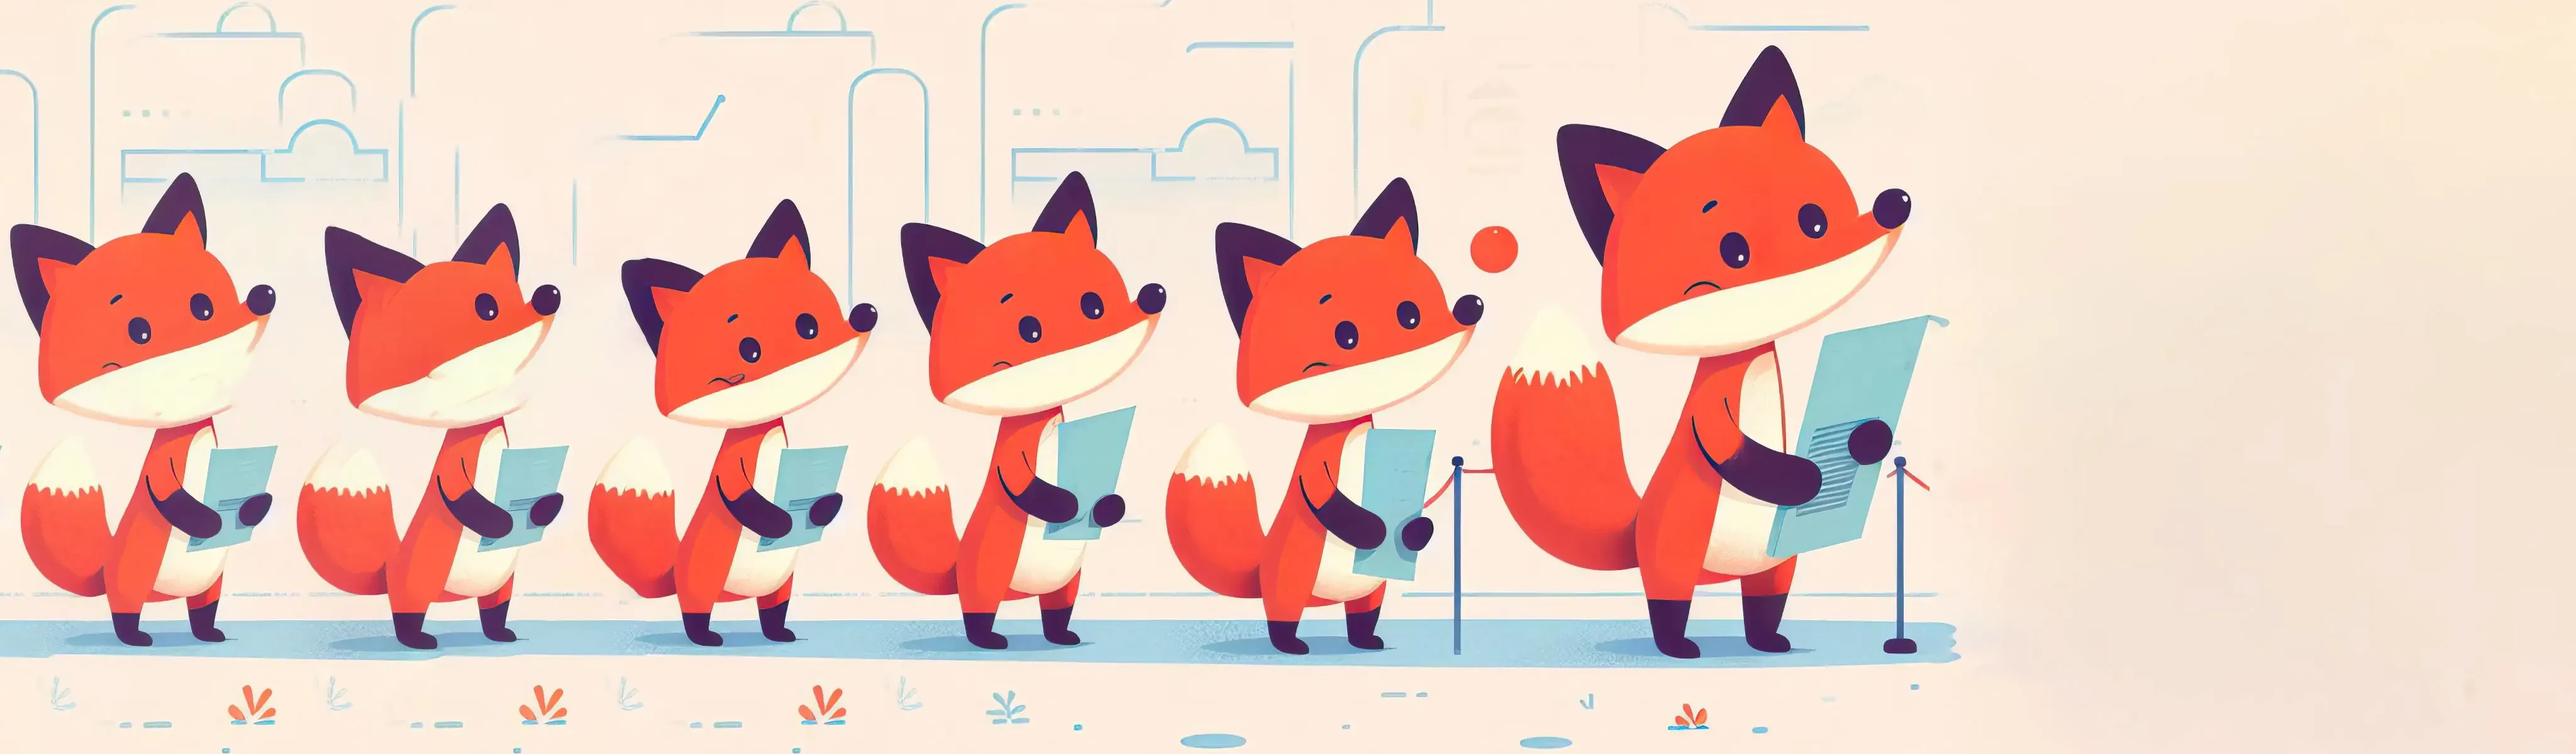
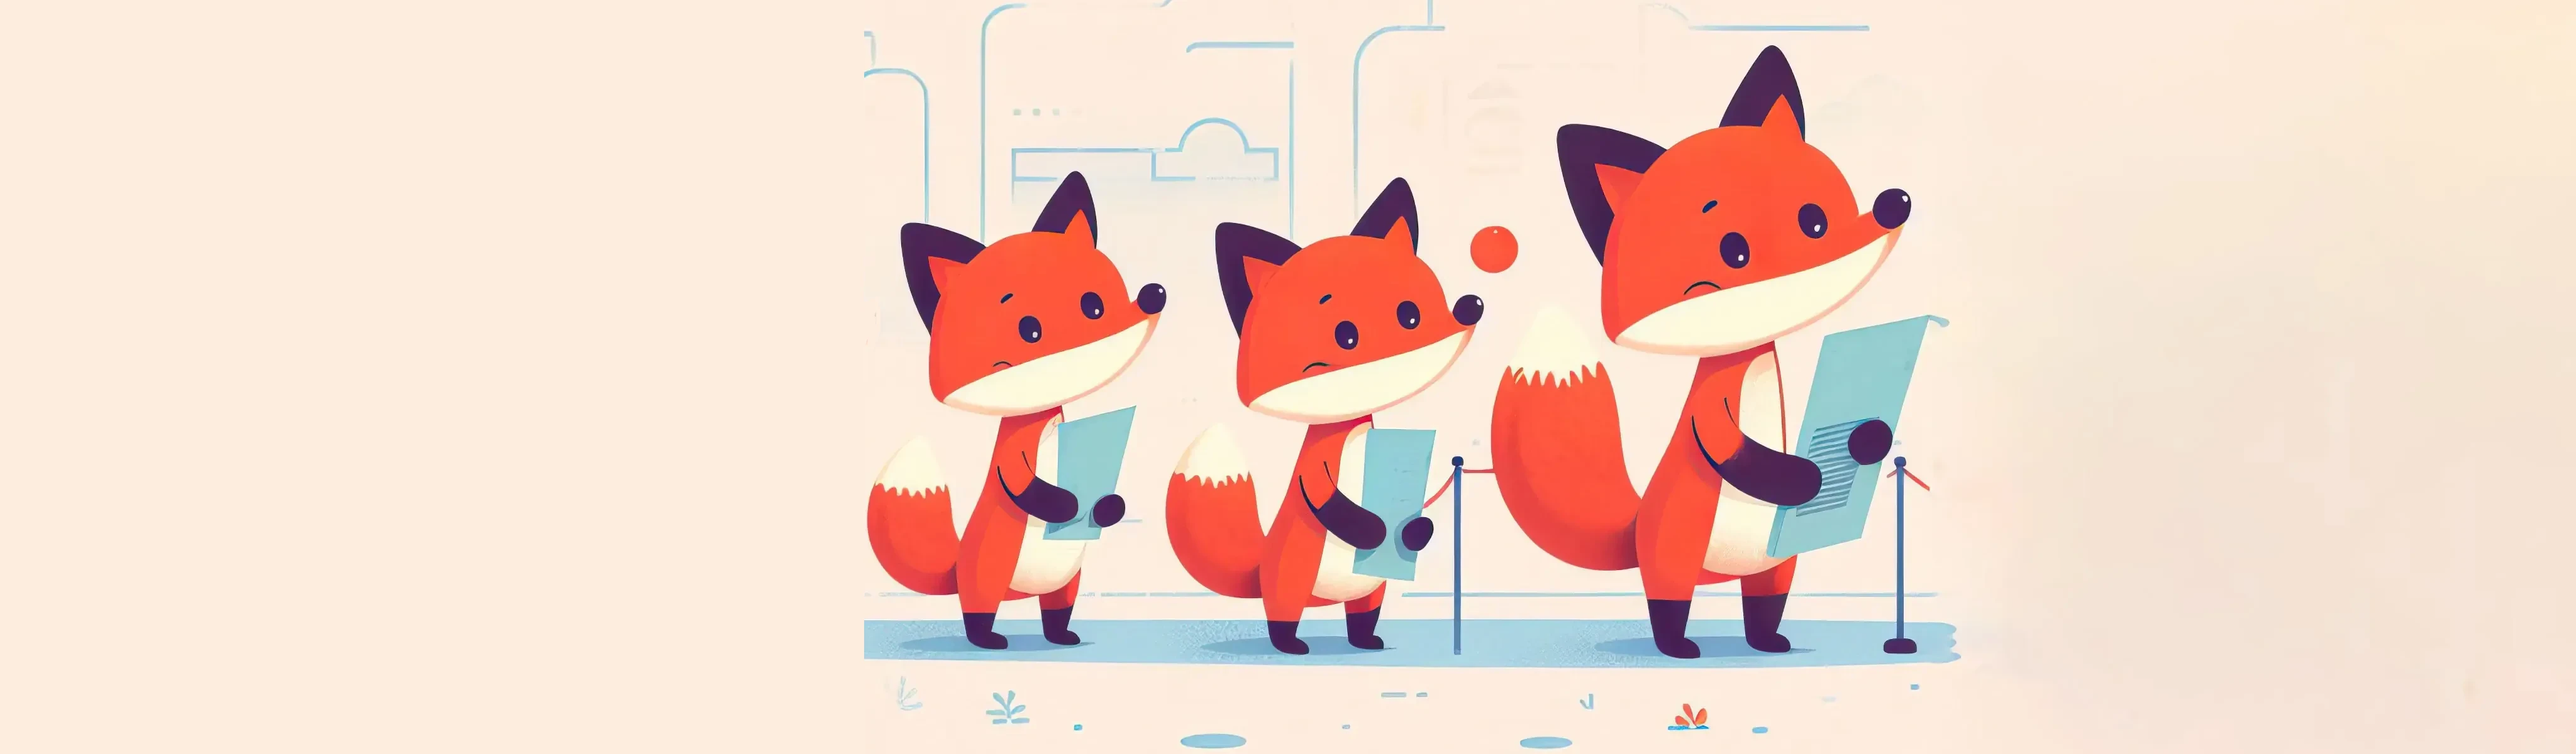
adding google forms

diff --git a/themes/yescharter/layouts/event/single.html b/themes/yescharter/layouts/event/single.html
@@ -9,16 +9,40 @@
       </div>
       <!-- event image -->
       <div class="col-12 mb-4">
-        {{ $eventImgSrc := cond (eq .Params.image nil) "images/events/foxes_buying_tickets-banner-4096.webp" .Params.image }}
-        {{ partial "imageset.html" 
-          (dict 
-              "imgsrc" $eventImgSrc 
-              "sizes" (slice "960" "1200" "1500" "1800") 
-              "alt" .Title  
-              "class" "img-fluid"
-              "vw" "90"
-          ) 
-        }}
+        {{ if not (eq .Params.bg_image nil) }}
+            {{ partial "imageset.html" 
+              (dict 
+                  "imgsrc" .Params.bg_image 
+                  "sizes" (slice "1200" "1800" "2600") 
+                  "alt" "banner image" 
+                  "class" "img-fluid w-100"
+                  "vw" "75"
+                  "style" "height: 400px;object-fit:cover;"
+              ) 
+            }}
+          {{ else if not (eq .Params.image nil) }}
+            {{ partial "imageset.html" 
+              (dict 
+                  "imgsrc" .Params.image 
+                  "sizes" (slice "1200" "1800" "2600") 
+                  "alt" "banner image" 
+                  "class" "img-fluid w-100"
+                  "vw" "75"
+                  "style" "max-height:400px;object-fit:scale-down;"
+              ) 
+            }}
+          {{ else }}
+            {{ partial "imageset.html" 
+              (dict 
+                  "imgsrc" "images/events/foxes_buying_tickets-banner-4096.webp" 
+                  "sizes" (slice "1200" "1800" "2600") 
+                  "alt" "banner image" 
+                  "class" "img-fluid w-100"
+                  "vw" "75"
+                  "style" "height: 400px;object-fit:cover;"
+              ) 
+            }}
+          {{ end }}
       </div>
     </div>
     <!-- event info -->
@@ -83,17 +107,17 @@
       {{ range .Params.Speaker }}
       <div class="col-lg-3 col-sm-6 mb-4 mb-lg-0">
         <div class="media">
-            {{ $eventImgSrc := cond (eq .Params.image nil) "images/teachers/profile_placeholder.webp" .Params.image }}
-            {{ $eventImgSet := partial "imgset.html" (dict "imgsrc" $eventImgSrc "sizes" (dict "xs" "100" "s" "200" "m" "300" "l" "400")) }}
-            <img class="mr-3 img-fluid" 
-                  srcset="
-                    {{- with $eventImgSet.xs -}}{{.}} 1x{{- end -}}
-                    {{- with $eventImgSet.s -}}, {{.}} 2x{{- end -}}
-                    {{- with $eventImgSet.m -}}, {{.}} 3x{{- end -}}
-                    {{- with $eventImgSet.l -}}, {{.}} 4x{{- end -}}"
-                  src="{{ $eventImgSet.full }}"
-                  alt="speaker image"
-            >
+            {{ $eventImgSrc := cond (eq .Params.image nil) "images/teachers/profile_placeholder_m.webp" .Params.image }}
+              {{ partial "imageset.html" 
+                (dict 
+                    "imgsrc" $eventImgSrc
+                    "sizes" (slice "150" "300" "600" "1200") 
+                    "alt" $.Title  
+                    "class" "mr-3"
+                    "style" "max-width:7vw;"
+                    "vw" "7"
+                ) 
+              }}
           <div class="media-body">
             <h4 class="mt-0">{{ .name }}</h4>
             {{ .designation }}

diff --git a/themes/yescharter/layouts/contact/list.html b/themes/yescharter/layouts/contact/list.html
@@ -10,6 +10,7 @@
     </div>
     <div class="row">
       <div class="col-lg-7 mb-4 mb-lg-0">
+        {{/* 
         <form action="{{ site.Params.contact_form_action | safeURL }}" method="POST">
           <input type="text" class="form-control mb-3" id="name" name="name" placeholder="Your Name">
           <input type="email" class="form-control mb-3" id="mail" name="mail" placeholder="Your Email">
@@ -17,23 +18,25 @@
           <textarea name="message" id="message" class="form-control mb-3" placeholder="Your Message"></textarea>
           <button type="submit" value="send" class="btn btn-primary">{{ i18n "send" }}</button>
         </form>
+        */}}
+        <iframe src="https://docs.google.com/forms/d/e/1FAIpQLScZiXhPvX2uZh0txZOMCtoaHsrYcskSZw-KCRGaltjqeyb8LQ/viewform?embedded=true" width="600" height="800" frameborder="0" marginheight="0" marginwidth="0">Loading…</iframe>
       </div>
       <div class="col-lg-5 content">
         {{ .Content }}
         <a href="tel:{{ site.Params.mobile }}" class="text-color h5 d-block">{{ site.Params.mobile }}</a>
         <a href="mailto:{{ site.Params.email }}" class="mb-5 text-color h5 d-block">{{ site.Params.email }}</a>
         <span class="h5">{{ site.Params.address | markdownify }}</span>
+        <!-- gmap -->
+        <div class="mx-auto my-2 embed-responsive embed-responsive-4by3 pt-0">
+          <!-- Google Map -->
+          <iframe class="embed-responsive-item" src="https://www.google.com/maps/embed?pb=!1m14!1m8!1m3!1d3084.666867277906!2d-121.24624000000003!3d39.36378!3m2!1i1024!2i768!4f13.1!3m3!1m2!1s0x809c9f9127cc33f9%3A0x9bb24b3746fc5821!2s9841+Texas+Hill+Rd!5e0!3m2!1sen!2sus!4v1404413685973" ></iframe>
+        </div>
+        <!-- /gmap -->
       </div>
+      
     </div>
   </div>
 </section>
 <!-- /contact -->
-
-<!-- gmap -->
-<section class="col-6 mx-auto embed-responsive embed-responsive-4by3 section pt-0">
-  <!-- Google Map -->
-  <iframe class="embed-responsive-item" src="https://www.google.com/maps/embed?pb=!1m14!1m8!1m3!1d3084.666867277906!2d-121.24624000000003!3d39.36378!3m2!1i1024!2i768!4f13.1!3m3!1m2!1s0x809c9f9127cc33f9%3A0x9bb24b3746fc5821!2s9841+Texas+Hill+Rd!5e0!3m2!1sen!2sus!4v1404413685973" ></iframe>
-</section>
-<!-- /gmap -->
 
 {{ end }}

diff --git a/themes/yescharter/layouts/program/single.html b/themes/yescharter/layouts/program/single.html
@@ -5,20 +5,40 @@
   <div class="container">
     <div class="row">
       <div class="col-12 mb-4">
-        <!-- program thumb -->
-          {{ if .Params.image }}
-            {{ $thumbset := partial "imgset.html" (dict "imgsrc" .Params.image "sizes" (dict "xs" "960" "s" "1200" "m" "1500" "l" "1800")) }}
-            <img style="height: 400px;width: 100%;object-fit: cover;"
-                class="img-fluid w-100"
-                srcset="
-                    {{- with $thumbset.xs -}}{{.}} 1x{{- end -}}
-                    {{- with $thumbset.s -}}, {{.}} 2x{{- end -}}
-                    {{- with $thumbset.m -}}, {{.}} 3x{{- end -}}
-                    {{- with $thumbset.l -}}, {{.}} 4x{{- end -}}
-                    {{- with $thumbset.full -}}, {{.}} 5x{{- end -}}"
-                src="{{ $thumbset.full }}"
-                alt="{{ .Title }} image"
-            >
+        <!-- program banner -->
+          {{ if not (eq .Params.bg_image nil) }}
+            {{ partial "imageset.html" 
+              (dict 
+                  "imgsrc" .Params.bg_image 
+                  "sizes" (slice "1200" "1800" "2600") 
+                  "alt" "banner image" 
+                  "class" "img-fluid w-100"
+                  "vw" "75"
+                  "style" "max-height: 400px;object-fit:cover;"
+              ) 
+            }}
+          {{ else if not (eq .Params.image nil) }}
+            {{ partial "imageset.html" 
+              (dict 
+                  "imgsrc" .Params.image 
+                  "sizes" (slice "1200" "1800" "2600") 
+                  "alt" "banner image" 
+                  "class" "img-fluid w-100"
+                  "vw" "75"
+                  "style" "max-height:400px;object-fit:scale-down;"
+              ) 
+            }}
+          {{ else }}
+            {{ partial "imageset.html" 
+              (dict 
+                  "imgsrc" "/images/fox_family_banner.webp" 
+                  "sizes" (slice "1200" "1800" "2600") 
+                  "alt" "banner image" 
+                  "class" "img-fluid w-100"
+                  "vw" "75"
+                  "style" "max-height: 400px;object-fit:cover;"
+              ) 
+            }}
           {{ end }}
       </div>
     </div>

diff --git a/themes/yescharter/layouts/staff/single.html b/themes/yescharter/layouts/staff/single.html
@@ -5,7 +5,19 @@
   <div class="container">
     <div class="row">
       <div class="col-md-5 mb-5">
-        <img class="img-fluid w-100" src="{{ .Params.image | relURL }}" alt="{{ .Title }}">
+        {{ if .Params.image }}
+          <a href="{{ .Permalink }}">
+            {{ partial "imageset.html" 
+              (dict 
+                  "imgsrc" .Params.image
+                  "sizes" (slice "300" "600" "900" "1200") 
+                  "alt" $.Title  
+                  "class" "img-fluid"
+                  "vw" "30"
+              ) 
+            }}
+          </a>
+        {{ end }}
       </div>
       <div class="col-md-6 mb-5">
         <h2 class="h3">{{ .Title }}</h2>

diff --git a/themes/yescharter/layouts/partials/imageset.html b/themes/yescharter/layouts/partials/imageset.html
@@ -11,7 +11,7 @@
     {{if .alt }}alt="{{.alt}}"{{end}} 
     {{if .width }}width="{{.width}}"{{end}} 
     {{if .height }}height="{{.height}}"{{end}} 
-    {{if .style }}style="{{.style}}"{{end}} 
+    {{if .style }}style="{{printf "%s" .style | safeCSS}}"{{end}} 
 
     sizes="(min-width: 300px) {{.vw}}vw, 100vw"
 >

diff --git a/content/english/about/high-school.md b/content/english/about/high-school.md
@@ -15,8 +15,8 @@ School programs of study emphasize project based learning around solving authent
 
 If you are interested in enrolling your student with YES Charter Academy at the High School level, please fill out this interest form to be contacted with more information. [interest form](#)
 
-<section class="col-10 mx-auto embed-responsive embed-responsive-4by3 section pt-0">
-    <iframe src="https://docs.google.com/forms/d/e/1FAIpQLSfpPML9QpPa3AJWACTHfoLH-Y9uP6LiinJCfKSfT3Es4idqsA/viewform?embedded=true" width="1200" height="1600" frameborder="0" marginheight="0" marginwidth="0">Loading…</iframe>
+<section class="col-12 mx-auto section pt-0">
+    <iframe src="https://docs.google.com/forms/d/e/1FAIpQLSfpPML9QpPa3AJWACTHfoLH-Y9uP6LiinJCfKSfT3Es4idqsA/viewform?embedded=true" width="1200" height="1024" frameborder="0" marginheight="0" marginwidth="0">Loading…</iframe>
 </section>
 
 <img class="img-fluid" src="/images/parents/APPROVED-YESHS-Postcards-Back-022022-WIDE.png" alt="high school poster" />

diff --git a/content/english/program/suicide-prevention.md b/content/english/program/suicide-prevention.md
@@ -3,9 +3,9 @@ title = "Suicide Prevention"
 date = 2023-09-18T15:30:00-08:00
 draft = false
 # page title background image
-bg_image = "images/banner.webp"
+bg_image = "images/program/fox_helping_banner.webp"
 # type
-image = "images/foxes_river.webp"
+image = "images/program/fox_helping.webp"
 type = "program"
 categories = ["Health And Wellness"]
 +++

diff --git a/content/english/program/air-quality.md b/content/english/program/air-quality.md
@@ -3,8 +3,8 @@ title = "Air Quality"
 date = 2019-07-06T15:27:17+06:00
 draft = false
 # page title background image
-bg_image = "images/banner.webp"
-image = "images/program/fox_measuring.jpg"
+image = "images/program/fox_measuring.webp"
+bg_image = "images/program/fox_measuring_banner.webp"
 type = "program"
 category = "Health"
 

diff --git a/content/english/program/family-resources.md b/content/english/program/family-resources.md
@@ -3,7 +3,7 @@ title = "Family Resource Services"
 date = 2023-09-18T15:30:00-08:00
 draft = false
 # page title background image
-image = "images/fox_family.jpg"
+image = "images/fox_family.webp"
 bg_image = "images/banner.webp"
 # type
 type = "program"

diff --git a/content/english/program/garden.md b/content/english/program/garden.md
@@ -5,7 +5,7 @@ draft = false
 # page title background image
 bg_image = "images/banner.webp"
 # thumbnail
-image = "images/fox_family.jpg"
+image = "images/fox_family.webp"
 type = "program"
 category = "Health"
 

diff --git a/content/english/program/homeschool-independent-study.md b/content/english/program/homeschool-independent-study.md
@@ -5,7 +5,7 @@ draft = false
 # page title background image
 bg_image = "images/banner.webp"
 # thumbnail
-image = "images/fox_family.jpg"
+image = "images/fox_family.webp"
 type = "program"
 category = "Health"
 

diff --git a/content/english/program/special-education.md b/content/english/program/special-education.md
@@ -5,7 +5,7 @@ draft = false
 # page title background image
 bg_image = "images/banner.webp"
 # thumbnail
-image = "images/fox_family.jpg"
+image = "images/fox_family.webp"
 type = "program"
 category = "Health"
 
